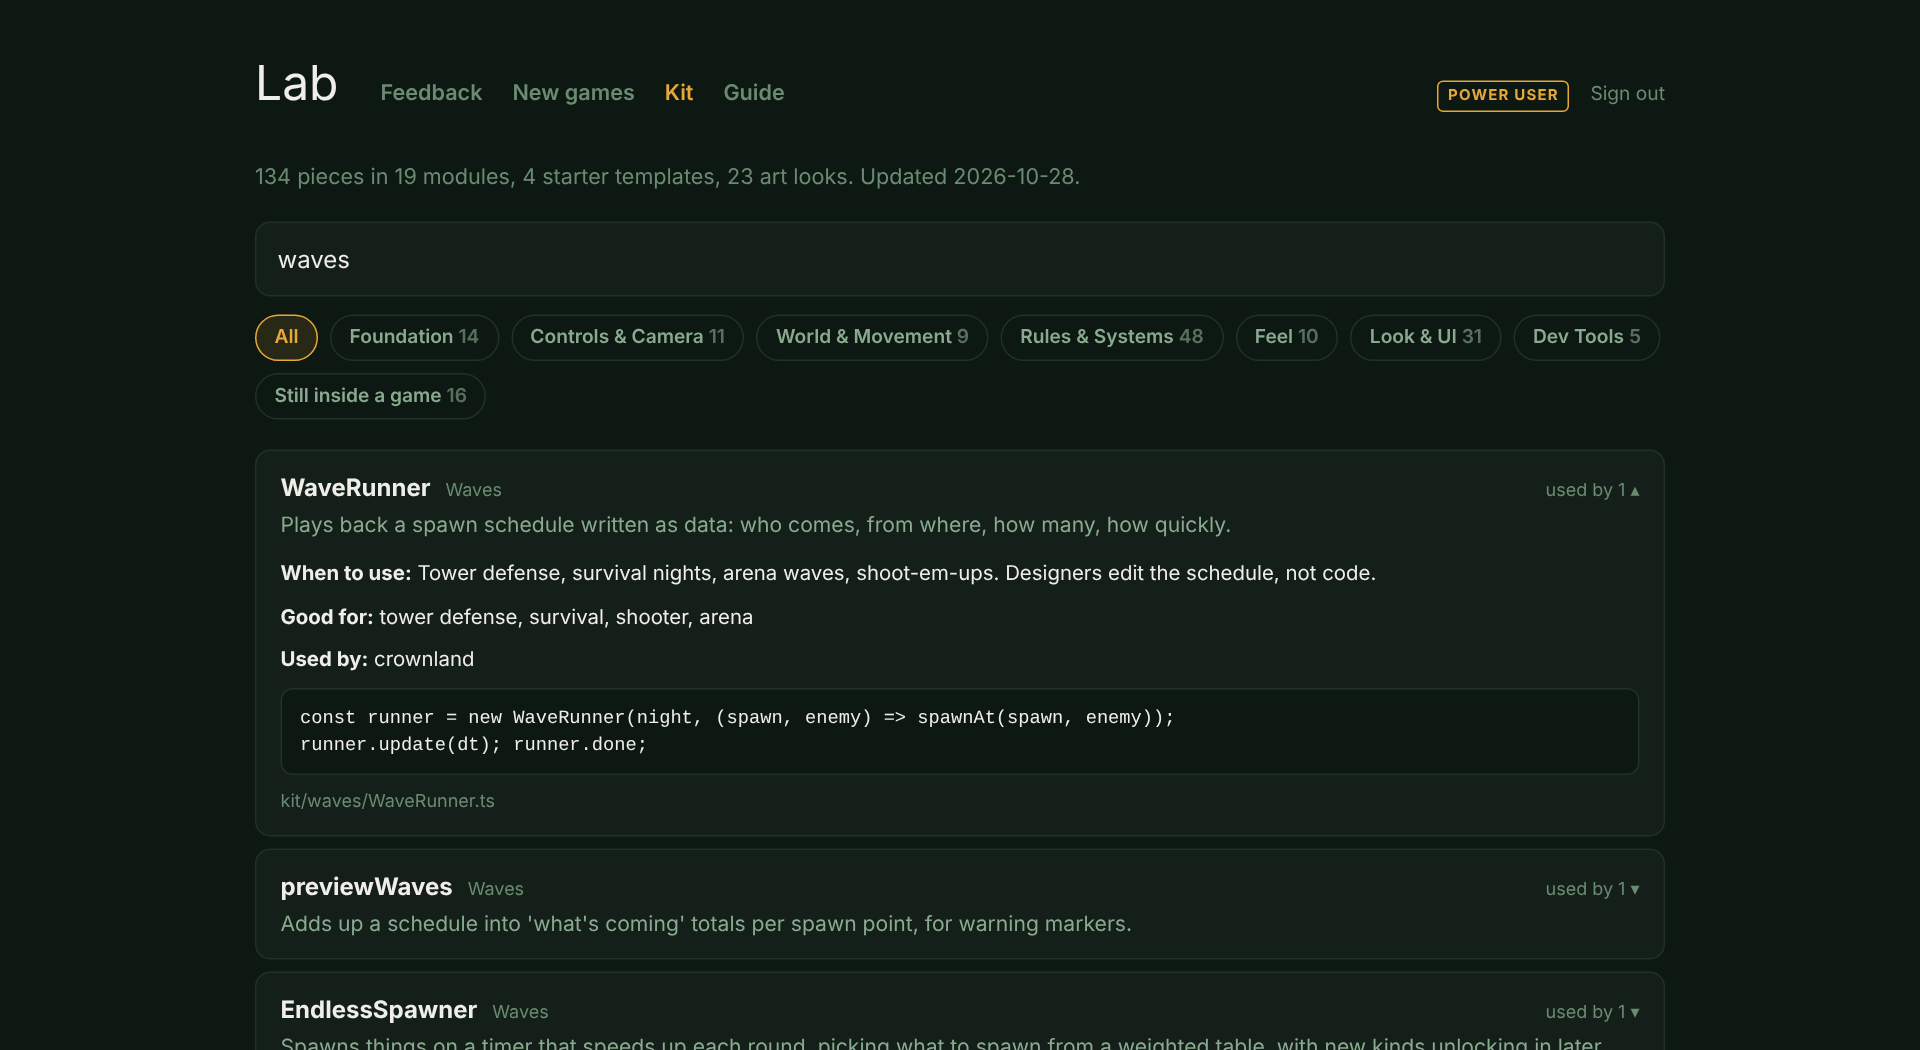
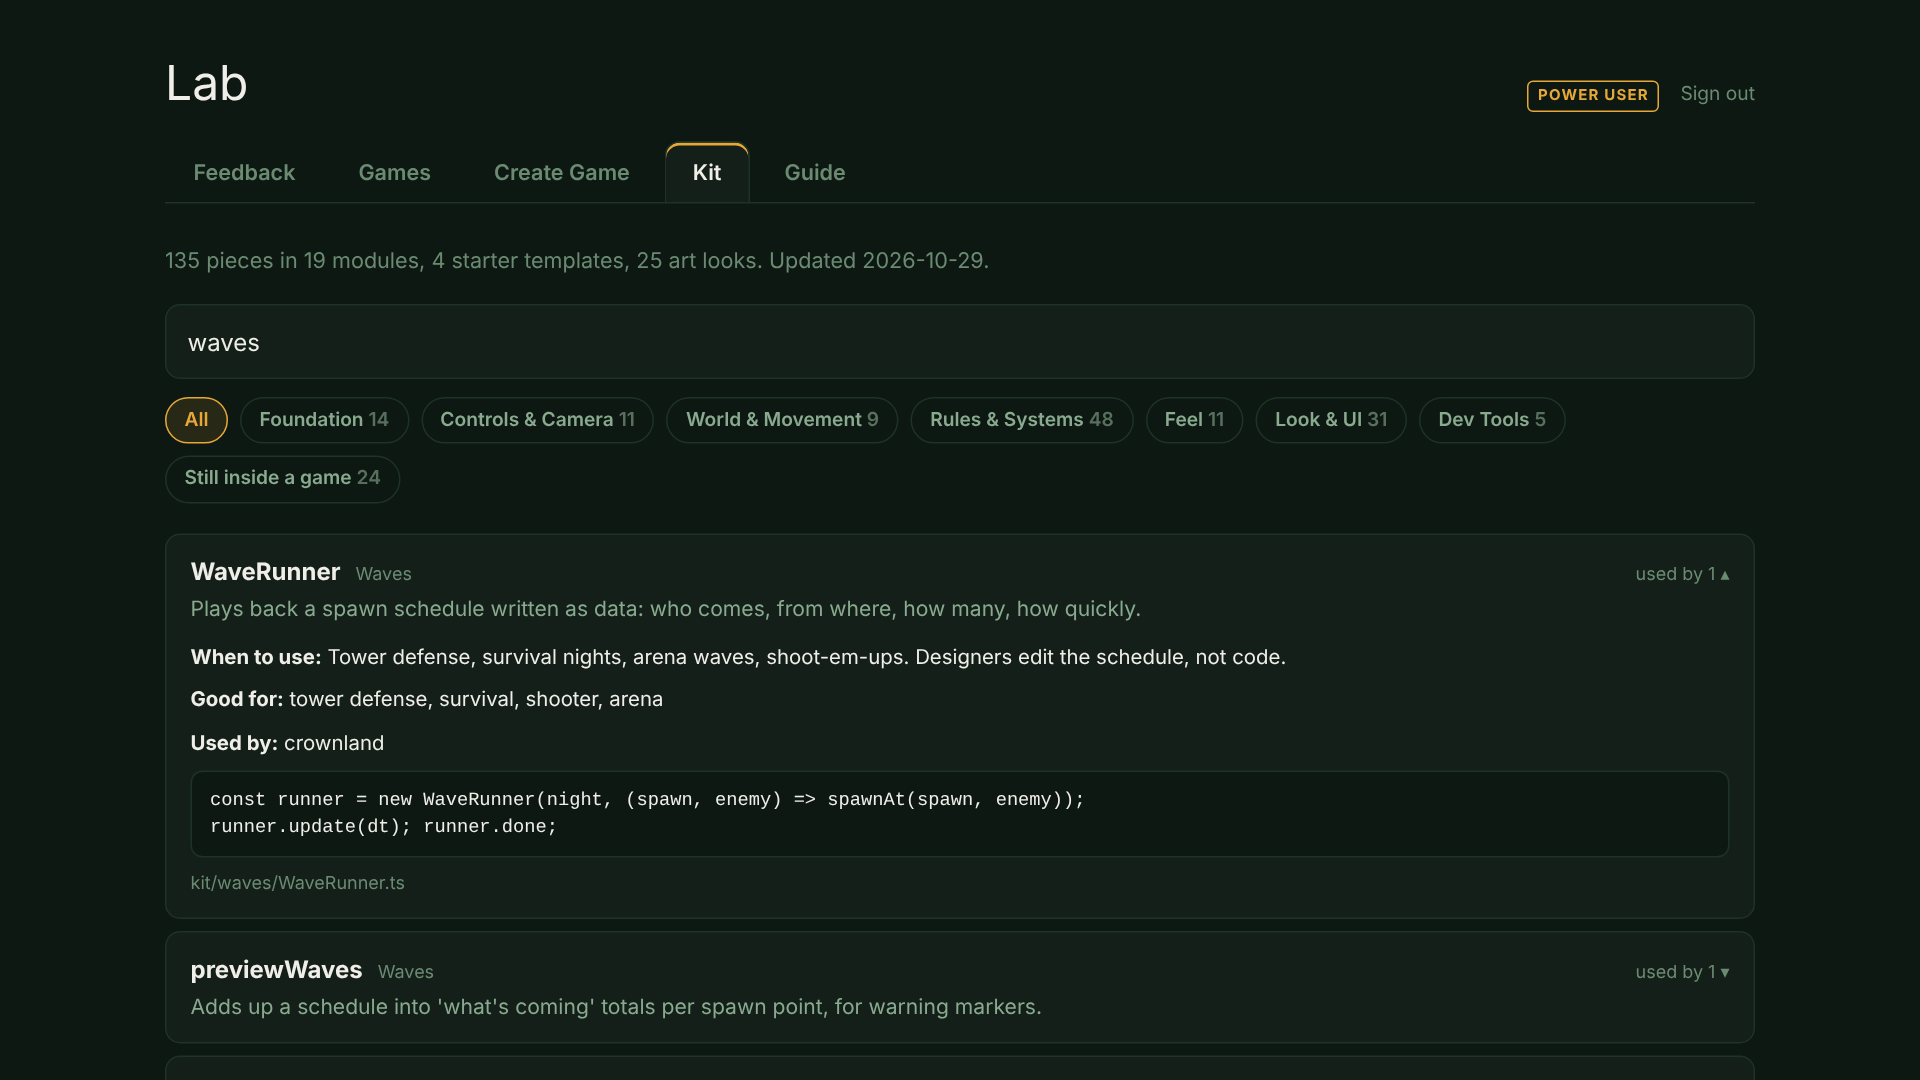
Lab guide: up to date with Games, Create Game, tabs, Stop all, merge conflicts, costs and timings; fresh screenshots
Claude-Session: https://claude.ai/code/session_01P2nMhwQKTh28KsKZZU1wuS

diff --git a/src/app/lab/guide/page.tsx b/src/app/lab/guide/page.tsx
@@ -21,27 +21,29 @@ export default function LabGuide() {
     <main style={{ maxWidth: '1100px', margin: '0 auto', padding: '32px 20px 100px', color: 'var(--text)' }}>
       <LabNav />
       <div style={{ maxWidth: '760px', lineHeight: 1.6, fontSize: '1rem' }}>
-      <h1 style={{ fontFamily: 'var(--font-dm-serif)', fontSize: '2.4rem', margin: '0 0 8px', fontWeight: 400 }}>Tester Lab guide</h1>
-      <P>The lab is where game designers work with Claude on Second Monitor Games. It has three parts, along the top of every lab page:</P>
+      <h1 style={{ fontFamily: 'var(--font-dm-serif)', fontSize: '2.4rem', margin: '0 0 8px', fontWeight: 400 }}>Lab guide</h1>
+      <P>The lab is where game designers work with Claude on Second Monitor Games. Its sections are the tabs along the top of every lab page:</P>
       <ul style={ul}>
         <li><b>Feedback</b>: notes on any of our games. Claude makes the change, you test it, and push it live (sections 1 to 7).</li>
-        <li><b>Create Game</b>: upload a GDD and get a playable game back to test and refine (sections 8 and 9).</li>
-        <li><b>Kit</b>: every reusable piece games are built from, searchable (section 10).</li>
+        <li><b>Games</b>: pick a game to see the Kit pieces it&apos;s built from and every version with its build notes (section 8).</li>
+        <li><b>Create Game</b>: upload a GDD and get a playable game back to test and refine (sections 9 and 10).</li>
+        <li><b>Kit</b>: every reusable piece games are built from, searchable (section 11).</li>
+        <li><b>Guide</b>: this page.</li>
       </ul>
-      <P>Talk or type notes while you play. Claude turns them into a playable test build in about 10 minutes. Nothing reaches the live site until a tester tries that build and pushes it live.</P>
+      <P>For feedback: talk or type notes while you play, and Claude turns them into a playable test build in about 10 to 15 minutes. Nothing reaches the live site until a tester tries that build and pushes it live.</P>
       <Loop />
 
       <H2>1. One-time setup</H2>
       <ol style={ol}>
         <li>Go to <a href="/lab" style={{ color: 'var(--accent)' }}>secondmonitorgames.com/lab</a>. It isn&apos;t linked anywhere on the site.</li>
         <li>Type the lab passcode and press <b>Enter</b>.</li>
-        <li>That&apos;s it: this browser stays in for 90 days. <b>Sign out</b>, top right of the lab, turns it off.</li>
+        <li>That&apos;s it: this browser stays in for 90 days. <b>Sign out</b>, top right of every lab page, turns it off.</li>
       </ol>
       <Shot src="01-passcode.png" alt="The lab passcode screen" small />
-      <P>Use Chrome, Edge or Safari. Recording works in all three; Firefox can still type and upload notes.</P>
+      <P>Use Chrome, Edge or Safari. Recording works in all three; Firefox can still type and upload notes. You can read this guide without the passcode, so it&apos;s fine to send the link to a new tester first.</P>
 
       <H2>2. Giving feedback while you play</H2>
-      <P>Open any game. Once you&apos;re in the lab, an orange <b>🎙 Feedback</b> button sits in the bar above the game.</P>
+      <P>Open any game on the site. Once you&apos;re in the lab, an orange <b>🎙 Feedback</b> button sits in the bar above the game. (It isn&apos;t on the Pop out window, which shows the game on its own.)</P>
       <Shot src="02-feedback-button.png" alt="The Feedback button above a game" />
       <ol style={ol}>
         <li><b>Press Feedback.</b> A panel opens in the bottom right and starts recording right away. The first time, allow the microphone.</li>
@@ -56,7 +58,7 @@ export default function LabGuide() {
       <ol start={5} style={ol}>
         <li><b>Press Send.</b> The note goes to the lab with the game, the build and how far into the session you were. Keep playing.</li>
       </ol>
-      <P>You can also add notes from the lab itself: pick the game at the top, then record, type or upload.</P>
+      <P>You can also add notes from the <b>Feedback</b> tab itself: pick the game at the top, then record, type or upload. <b>Give feedback</b> on a game&apos;s page in the Games tab opens this with that game already picked.</P>
       <Shot src="05-lab-add-note.png" alt="Adding a note in the lab" />
 
       <H2>3. Sending notes to Claude: Inbox and Push</H2>
@@ -69,9 +71,9 @@ export default function LabGuide() {
       </ul>
 
       <H2>4. While Claude works: In progress and Stop</H2>
-      <P>A batch takes about 10 minutes: recordings are transcribed, Claude makes the changes, the Kit&apos;s checks run, and a test build of each changed game goes up. Live games are untouched.</P>
+      <P>A batch takes about 10 to 15 minutes: recordings are transcribed, Claude makes the changes, the Kit&apos;s checks run, and a test build of each changed game goes up. Live games are untouched.</P>
       <Shot src="07-in-progress.png" alt="A note in progress with Stop" />
-      <P><b>Stop</b> cancels the run and returns the note to the Inbox. Use it if a run is stuck or was pushed by mistake.</P>
+      <P><b>Stop</b> cancels the run and returns the note to the Inbox marked &quot;Stopped&quot;. Use it if a run is stuck or was pushed by mistake. <b>Stop all</b> appears when more than one note is running.</P>
 
       <H2>5. Testing the change and pushing it live</H2>
       <P>When the test build is up, the batch moves to <b>Review</b>: what the tester said, what <b>Claude heard</b>, what it <b>Changed</b>, and a link to test it.</P>
@@ -81,10 +83,11 @@ export default function LabGuide() {
       <P><b>Happy with it?</b> Tick <b>Are you sure?</b>, then press <b>Push to live site</b>. Anyone with the lab passcode can do this. After a few minutes the bar shows <b>Live now: play it</b>. This takes the whole batch live; if it changed other games too, the checkbox names them.</P>
       <Shot src="09b-push-live.png" alt="Are you sure? ticked, Push to live site ready" />
       <P><b>Not right?</b> In the lab, press <b>Send back</b> and say what should change. The test build is thrown away and the notes return to the Inbox with your comment, so the next Push tells Claude what was wrong. <b>Approve</b> in the lab is the same as Push to live site.</P>
+      <P>If someone changed the same game since the test build was made, the push can&apos;t go through: the batch stays in Review with a note saying so. Press <b>Send back</b> and push again, and Claude redoes the change on top of the latest version.</P>
 
       <H2>6. Live changes and Undo</H2>
       <Shot src="10-live.png" alt="A live batch with Play and Undo" />
-      <P><b>Undo</b> reverts that whole push and re-ships the games as they were. Every change is also kept in the Kit&apos;s history on GitHub, so nothing is lost.</P>
+      <P>Live changes are grouped by push, each with a <b>Play it live</b> link once the site has updated. <b>Undo</b> reverts that whole push and re-ships the games as they were; if later changes touched the same code, the note says so and Undo has to be done by hand. Every change is also kept in the Kit&apos;s history on GitHub, so nothing is lost.</P>
 
       <H2>7. Set aside and troubleshooting</H2>
       <P><b>Set aside</b> holds notes you set aside, notes Claude skipped (with the reason) and undone pushes. <b>Back to inbox</b> returns one.</P>
@@ -94,18 +97,29 @@ export default function LabGuide() {
         <tbody>
           <tr><td style={cell}>No Feedback button on a game</td><td style={cell}>Enter the passcode at /lab, then reload the game</td></tr>
           <tr><td style={cell}>&quot;Microphone blocked&quot;</td><td style={cell}>Allow the microphone in the address bar, then press Record</td></tr>
-          <tr><td style={cell}>Note stuck in In progress</td><td style={cell}>Wait 15 minutes, then press Stop and push again</td></tr>
+          <tr><td style={cell}>Note stuck in In progress</td><td style={cell}>Runs take up to about 15 minutes. Longer than that: press Stop, then push again</td></tr>
           <tr><td style={cell}>Note back in the Inbox in red</td><td style={cell}>Read the reason, edit the note if needed, push again</td></tr>
           <tr><td style={cell}>&quot;The change broke the kit checks&quot;</td><td style={cell}>Push again, or reword the note more specifically</td></tr>
           <tr><td style={cell}>Live link not showing yet</td><td style={cell}>The site is still updating; refresh in a few minutes</td></tr>
+          <tr><td style={cell}>&quot;Someone changed the same game code&quot;</td><td style={cell}>Send back, then push again (section 5)</td></tr>
         </tbody>
       </table>
-      <P>Each Push runs Claude on Ryan&apos;s account, capped at $5 a push and $200 a month. Send back and Stop cost almost nothing.</P>
+      <P>Each Push runs Claude on Ryan&apos;s account, capped at $5 a feedback push, $20 a Create Game push, and $200 a month. Send back and Stop cost almost nothing.</P>
 
-      <H2>8. Create Game: a new game from a GDD</H2>
+      <H2>8. Games</H2>
+      <P>The <b>Games</b> tab lists every game with its current version. Pick one from the dropdown to see:</P>
+      <ul style={ul}>
+        <li><b>Version history</b>: every version that went live, newest first, with the date. Under each are the changes made since the version before, and <b>Build notes</b> opens the full note on a change. Changes made but not shipped yet sit at the top under <b>Not shipped yet</b>.</li>
+        <li><b>Built from the Kit</b>: the Kit modules and every Kit piece the game uses, by category. Click a piece to open it in the Kit tab. Systems built only for this game that could join the Kit are listed too.</li>
+        <li><b>Lab activity</b>: tester notes on the game and any Create Game build it came from.</li>
+      </ul>
+      <Shot src="16-games.png" alt="A game in the Games tab: version history with build notes, and the Kit pieces it uses" />
+      <P>A new version is added automatically every time a game ships, from the Feedback tab, Create Game or Ryan&apos;s own work.</P>
+
+      <H2>9. Create Game: a new game from a GDD</H2>
       <P>Under <b>Create Game</b>, drop in a game design document (PDF, Word, Markdown or text, up to 3 MB), give the game a title, and add any notes for Claude: a look to use, what to build first, what to leave out. Press <b>Upload</b>.</P>
       <Shot src="13-new-games.png" alt="Create Game: upload a GDD, and the list of games with their status" />
-      <P>On the game&apos;s page, press <b>Push to Claude</b>. Claude reads the GDD, maps every system it needs to pieces already in the Kit, builds the game from those pieces, and moves anything new and reusable back into the Kit. A first build usually takes 20 to 45 minutes; the page updates by itself, and <b>Stop</b> cancels it.</P>
+      <P>On the game&apos;s page, press <b>Push to Claude</b>. Claude reads the GDD, maps every system it needs to pieces already in the Kit, builds the game from those pieces, and moves anything new and reusable back into the Kit. A first build usually takes 20 to 45 minutes; the page updates by itself, and <b>Stop</b> cancels it. A scanned PDF has no text for Claude to read, so use a text PDF or a Word file.</P>
       <P>When it&apos;s done, the page shows:</P>
       <ul style={ul}>
         <li><b>The test build</b>, playable right on the page (or <b>Open full window</b>). Test builds never post to the real leaderboards.</li>
@@ -115,20 +129,20 @@ export default function LabGuide() {
       </ul>
       <Shot src="14-build-page.png" alt="A new game's page: the test build, Ask for changes, Kit reuse and History" />
       <P><b>Not there yet?</b> Write what should change under <b>Ask for changes</b> and press <b>Push changes to Claude</b>. Each push makes a new version on top of the last, with the GDD still the reference. Repeat as often as you like.</P>
-      <P><b>Happy with it?</b> Press <b>Send to power user</b>. The game waits for a power user to publish it.</P>
+      <P><b>Happy with it?</b> Press <b>Send to power user</b>. The game waits for a power user to publish it. <b>Delete this game</b>, at the bottom, removes a game that isn&apos;t live.</P>
 
-      <H2>9. Power users: publishing a new game</H2>
+      <H2>10. Power users: publishing a new game</H2>
       <P>Power users sign in to the lab with the power-user passcode (Ryan sets it as <code>LAB_POWER_PASSCODE</code>). They see a <b>POWER USER</b> badge, and on a game waiting for them, a <b>Publish to live site</b> button behind an <b>Are you sure?</b> checkbox.</P>
       <Shot src="15-publish.png" alt="A game waiting for a power user, with Publish to live site" />
-      <P>Publishing merges the game&apos;s code (and anything it added to the Kit) into the Kit, then ships the game to the site with a front-page card, a leaderboard and achievements. It takes a few minutes; the page then shows <b>Play it live</b>. Anyone can still <b>Withdraw the request</b> or ask for more changes before it&apos;s published.</P>
+      <P>Publishing merges the game&apos;s code (and anything it added to the Kit) into the Kit, then ships the game to the site with a front-page card, a leaderboard and achievements. It takes a few minutes; the page then shows <b>Play it live</b>. Anyone can still <b>Withdraw the request</b> or ask for more changes before it&apos;s published. If the Kit changed in the same places since the version was built, publishing stops with a note: ask for a small change to rebuild it on the latest Kit, then publish again. Once live, the game appears in the Games tab like every other game.</P>
 
-      <H2>10. The Kit</H2>
+      <H2>11. The Kit</H2>
       <P>Every game is built from the Kit: shared pieces for the game loop, screens, input, cameras, waves, cards, words, scoring, effects, sound and art looks. The more games we build, the more pieces the Kit has, and the less new code each game needs.</P>
       <Shot src="12-kit.png" alt="The Kit browser, searching for waves" />
       <ul style={ul}>
         <li><b>Search</b> by what you need (&quot;waves&quot;, &quot;deck&quot;, &quot;tower defense&quot;) or filter by category.</li>
         <li><b>Click a piece</b> for when to use it, what it&apos;s good for, which games use it, and a short code example.</li>
-        <li>Below the pieces: the <b>starter templates</b>, the <b>art looks</b>, the <b>modules</b>, and which pieces each game uses.</li>
+        <li>Below the pieces: the <b>starter templates</b>, the <b>art looks</b>, the <b>modules</b>, and which modules each game uses (the Games tab has the full breakdown per game).</li>
         <li><b>Still inside a game</b> lists systems built for one game that the next game could pull into the Kit.</li>
       </ul>
       <P>Writing a GDD with the Kit in mind (naming a look, or a system the Kit already has) makes builds faster and cheaper. The Kit list updates every time a game ships.</P>
